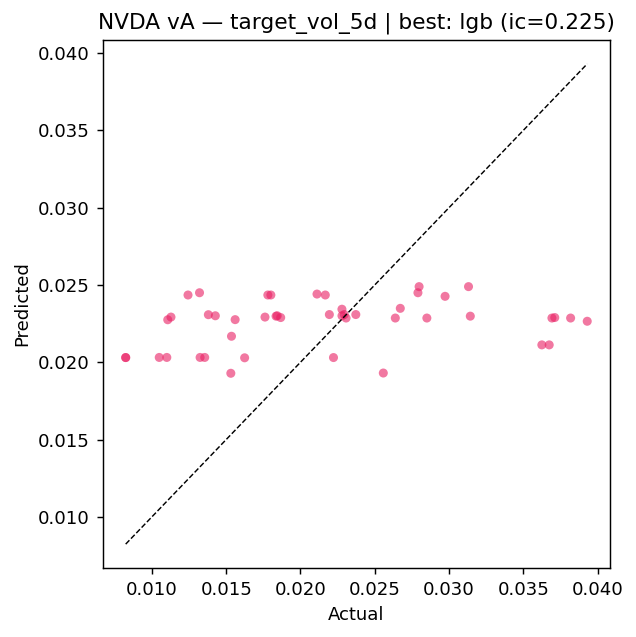
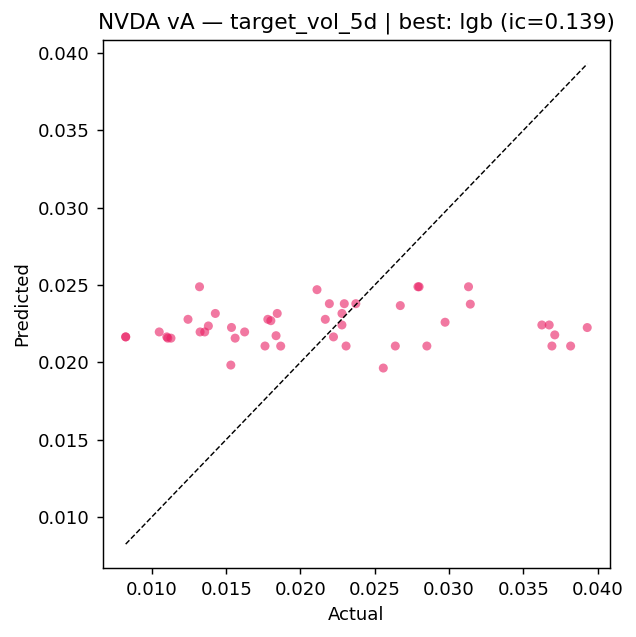
Cross Validation and Hyperparameter tuning

diff --git a/algorithms/machine_learning_algorithms/supervised/pipeline.py b/algorithms/machine_learning_algorithms/supervised/pipeline.py
@@ -8,11 +8,12 @@ from sklearn.preprocessing import StandardScaler, LabelEncoder
 from sklearn.linear_model import Lasso
 from imblearn.over_sampling import SMOTE
 
-from config import LASSO_ALPHA, SMOTE_K, BINARY_CLF, MULTI_CLF
+from config import LASSO_ALPHA, SMOTE_K, BINARY_CLF, MULTI_CLF, USE_TUNING, TUNE_ITER, TUNE_SPLITS
 from data import prepare_fold_data
 from baselines import target_baseline
 from metrics import reg_metrics, clf_metrics
-from models import reg_model_set, clf_model_set, _get_feature_importances
+from models import (reg_model_set, clf_model_set, _get_feature_importances,
+                    reg_param_dists, clf_param_dists, _tune_scoring, tune_model)
 
 
 # ─────────────────────────────────────────────────────────────────────────────
@@ -32,6 +33,9 @@ def run_folds(df, folds, features, target, task):
 
     fold_records = []
     feat_counter = defaultdict(int)
+    param_dists  = (reg_param_dists() if task == "regression"
+                    else clf_param_dists()) if USE_TUNING else {}
+    scoring      = _tune_scoring(task, target) if USE_TUNING else None
 
     for fi, (tr_idx, val_idx) in enumerate(folds):
         X_tr, X_val, y_tr, y_val, sel, scaler, mask, _ = prepare_fold_data(
@@ -47,7 +51,11 @@ def run_folds(df, folds, features, target, task):
                                  **reg_metrics(y_val[valid], y_bl)})
             for name, m in reg_model_set().items():
                 try:
-                    m.fit(X_tr, y_tr)
+                    if USE_TUNING and name in param_dists:
+                        m, _ = tune_model(name, m, param_dists[name],
+                                          X_tr, y_tr, scoring, TUNE_ITER, TUNE_SPLITS)
+                    else:
+                        m.fit(X_tr, y_tr)
                     yhat = m.predict(X_val)
                     fold_records.append({"fold": fi, "model": name,
                                          **reg_metrics(y_val[valid], yhat[valid])})
@@ -71,13 +79,19 @@ def run_folds(df, folds, features, target, task):
 
             for name, m in clf_model_set(n_cls, is_binary_imb, spw, is_multi).items():
                 try:
-                    if name in ("xgb", "lgb"):
+                    if USE_TUNING and name in param_dists:
+                        y_fit = y_tr_enc if name in ("xgb", "lgb") else y_tr.astype(int)
+                        m, _ = tune_model(name, m, param_dists[name],
+                                          X_tr, y_fit, scoring, TUNE_ITER, TUNE_SPLITS)
+                    elif name in ("xgb", "lgb"):
                         m.fit(X_tr, y_tr_enc, sample_weight=sw)
+                    else:
+                        m.fit(X_tr, y_tr.astype(int))
+                    if name in ("xgb", "lgb"):
                         yhat = le.inverse_transform(
                             np.clip(m.predict(X_val).astype(int), 0, n_cls - 1))
                         proba = m.predict_proba(X_val)
                     else:
-                        m.fit(X_tr, y_tr.astype(int))
                         yhat  = m.predict(X_val).astype(int)
                         proba = m.predict_proba(X_val) if hasattr(m, "predict_proba") else None
                     fold_records.append({"fold": fi, "model": name,
@@ -144,16 +158,23 @@ def run_holdout(df, cv_idx, holdout_idx, features, target, task):
     X_h_ev  = X_h[valid_h]
     y_h_ev  = y_h[valid_h]
 
-    results = {}
+    results     = {}
+    param_dists = (reg_param_dists() if task == "regression"
+                   else clf_param_dists()) if USE_TUNING else {}
+    h_scoring   = _tune_scoring(task, target) if USE_TUNING else None
 
-    # ── regression ────────────────────────────────────────────────────────────
+    # ── regression ─────────────────────────────────────────────────────────────
     if task == "regression":
         y_bl = target_baseline(y_all, len(y_h_ev), target)
         results["baseline"] = {"metrics": reg_metrics(y_h_ev, y_bl),
                                "y_true": y_h_ev, "y_pred": y_bl}
         for name, m in reg_model_set().items():
             try:
-                m.fit(X_cv, y_all)
+                if USE_TUNING and name in param_dists:
+                    m, _ = tune_model(name, m, param_dists[name],
+                                      X_cv, y_all, h_scoring, TUNE_ITER, TUNE_SPLITS)
+                else:
+                    m.fit(X_cv, y_all)
                 yhat = m.predict(X_h_ev)
                 results[name] = {
                     "metrics":     reg_metrics(y_h_ev, yhat),
@@ -199,13 +220,19 @@ def run_holdout(df, cv_idx, holdout_idx, features, target, task):
 
         for name, m in clf_model_set(n_cls, is_binary_imb, spw, is_multi).items():
             try:
-                if name in ("xgb", "lgb"):
+                if USE_TUNING and name in param_dists:
+                    y_fit = y_cv_enc if name in ("xgb", "lgb") else y_cv_orig_fit
+                    m, _ = tune_model(name, m, param_dists[name],
+                                      X_cv, y_fit, h_scoring, TUNE_ITER, TUNE_SPLITS)
+                elif name in ("xgb", "lgb"):
                     m.fit(X_cv, y_cv_enc, sample_weight=sw)
+                else:
+                    m.fit(X_cv, y_cv_orig_fit)
+                if name in ("xgb", "lgb"):
                     yhat_enc = m.predict(X_h_ev).astype(int)
                     yhat  = le.inverse_transform(np.clip(yhat_enc, 0, n_cls - 1)).astype(float)
                     proba = m.predict_proba(X_h_ev)
                 else:
-                    m.fit(X_cv, y_cv_orig_fit)
                     yhat  = m.predict(X_h_ev).astype(float)
                     proba = m.predict_proba(X_h_ev) if hasattr(m, "predict_proba") else None
                 results[name] = {

diff --git a/algorithms/machine_learning_algorithms/supervised/models.py b/algorithms/machine_learning_algorithms/supervised/models.py
@@ -1,11 +1,13 @@
 """
-models.py — Model factories and feature importance extraction (Phase 3).
+models.py — Model factories, feature importance, and hyperparameter tuning (Stage 7C).
 """
 import numpy as np
+from scipy.stats import loguniform, uniform
 from sklearn.linear_model import Ridge, ElasticNet, HuberRegressor, LogisticRegression
 from sklearn.svm import LinearSVC
 from sklearn.calibration import CalibratedClassifierCV
 from sklearn.ensemble import RandomForestRegressor, RandomForestClassifier
+from sklearn.model_selection import RandomizedSearchCV, TimeSeriesSplit
 import xgboost as xgb
 import lightgbm as lgb
 
@@ -92,3 +94,84 @@ def _get_feature_importances(model, name, sel_features):
         return dict(zip(sel_features, fi.tolist()))
     except Exception:
         return None
+
+
+# ─────────────────────────────────────────────────────────────────────────────
+# Stage 7C — Hyperparameter tuning
+# ─────────────────────────────────────────────────────────────────────────────
+def reg_param_dists():
+    """RandomizedSearch parameter distributions for regression models."""
+    return {
+        "ridge":      {"alpha": loguniform(0.1, 100)},
+        "elasticnet": {"alpha": loguniform(1e-3, 1), "l1_ratio": uniform(0.1, 0.85)},
+        "huber":      {"epsilon": uniform(1.05, 1.45), "alpha": loguniform(1e-5, 0.1)},
+        "rf":         {"n_estimators": [100, 200, 300],
+                       "max_depth": [4, 6, 8, None],
+                       "min_samples_leaf": [1, 2, 4]},
+        "xgb":        {"n_estimators": [100, 200, 300], "max_depth": [3, 4, 6],
+                       "learning_rate": loguniform(0.01, 0.3),
+                       "subsample": uniform(0.6, 0.4), "colsample_bytree": uniform(0.6, 0.4),
+                       "reg_alpha": loguniform(0.01, 1), "reg_lambda": loguniform(0.1, 10)},
+        "lgb":        {"n_estimators": [100, 200, 300], "max_depth": [3, 4, 6],
+                       "learning_rate": loguniform(0.01, 0.3),
+                       "subsample": uniform(0.6, 0.4), "colsample_bytree": uniform(0.6, 0.4),
+                       "reg_alpha": loguniform(0.01, 1), "reg_lambda": loguniform(0.1, 10)},
+    }
+
+
+def clf_param_dists():
+    """RandomizedSearch parameter distributions for classification models."""
+    return {
+        "logistic": {"C": loguniform(0.01, 100)},
+        "svc_cal":  {"estimator__C": loguniform(0.01, 100)},
+        "rf":       {"n_estimators": [100, 200, 300],
+                     "max_depth": [4, 6, 8, None],
+                     "min_samples_leaf": [1, 2, 4]},
+        "xgb":      {"n_estimators": [100, 200, 300], "max_depth": [3, 4, 6],
+                     "learning_rate": loguniform(0.01, 0.3),
+                     "subsample": uniform(0.6, 0.4), "colsample_bytree": uniform(0.6, 0.4),
+                     "reg_alpha": loguniform(0.01, 1), "reg_lambda": loguniform(0.1, 10)},
+        "lgb":      {"n_estimators": [100, 200, 300], "max_depth": [3, 4, 6],
+                     "learning_rate": loguniform(0.01, 0.3),
+                     "subsample": uniform(0.6, 0.4), "colsample_bytree": uniform(0.6, 0.4),
+                     "reg_alpha": loguniform(0.01, 1), "reg_lambda": loguniform(0.1, 10)},
+    }
+
+
+def _tune_scoring(task, target):
+    """Return the sklearn scoring string for inner CV during tuning."""
+    if task == "regression":
+        return "r2"
+    return "average_precision" if target in BINARY_CLF else "f1_weighted"
+
+
+def tune_model(name, model, param_dist, X, y, scoring, n_iter, n_splits=3):
+    """
+    RandomizedSearchCV with TimeSeriesSplit inner folds (no data leakage).
+
+    Returns (best_estimator, best_params) on success.
+    On failure prints a warning, falls back to fitting with original params,
+    and returns (model, {}).
+    """
+    tscv = TimeSeriesSplit(n_splits=n_splits)
+    try:
+        rs = RandomizedSearchCV(
+            estimator=model,
+            param_distributions=param_dist,
+            n_iter=n_iter,
+            scoring=scoring,
+            cv=tscv,
+            refit=True,
+            random_state=42,
+            n_jobs=1,
+            error_score="raise",
+        )
+        rs.fit(X, y)
+        return rs.best_estimator_, rs.best_params_
+    except Exception as e:
+        print(f"      [tune {name} failed: {e}]")
+        try:
+            model.fit(X, y)
+        except Exception:
+            pass
+        return model, {}

diff --git a/algorithms/machine_learning_algorithms/supervised/config.py b/algorithms/machine_learning_algorithms/supervised/config.py
@@ -31,3 +31,11 @@ CLF_TARGETS  = ["target_dir_1d", "target_large_move", "target_regime"]
 BINARY_CLF   = {"target_large_move"}
 MULTI_CLF    = {"target_dir_1d", "target_regime"}
 REGIME_COLS  = ["cluster_kmeans", "anomaly_iso", "anomaly_score"]
+
+# ── Stage 7C — hyperparameter tuning ─────────────────────────────────────────
+USE_TUNING   = True   # RandomizedSearchCV with TimeSeriesSplit inner CV
+TUNE_ITER    = 15     # iterations per model per fold
+TUNE_SPLITS  = 3      # inner TimeSeriesSplit folds
+BINARY_CLF   = {"target_large_move"}
+MULTI_CLF    = {"target_dir_1d", "target_regime"}
+REGIME_COLS  = ["cluster_kmeans", "anomaly_iso", "anomaly_score"]
